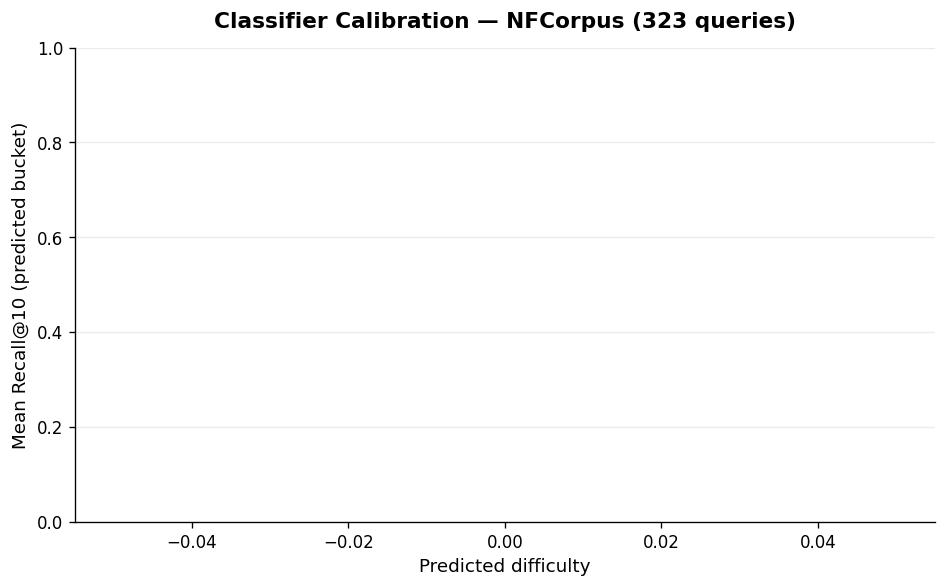
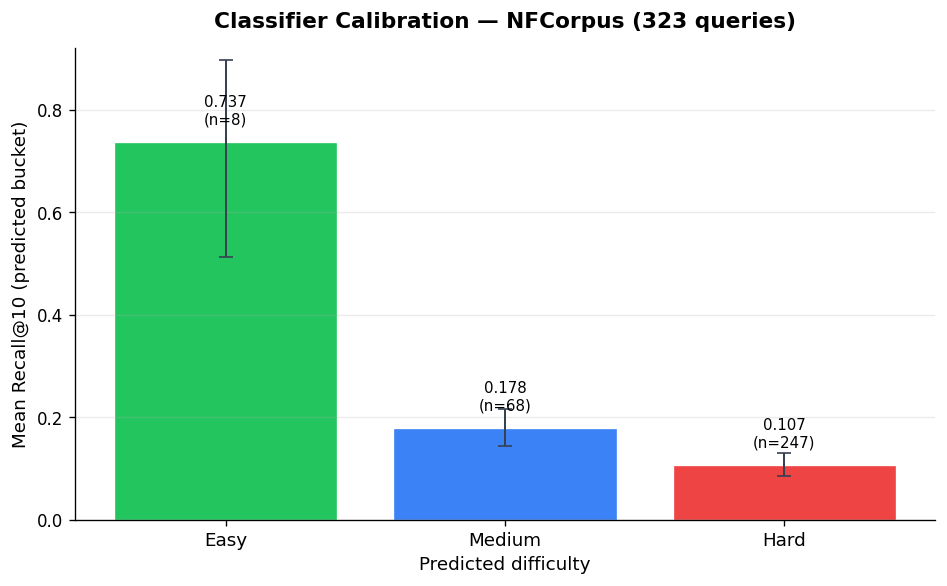
image fix

diff --git a/scripts/generate_dashboard_screenshots.py b/scripts/generate_dashboard_screenshots.py
@@ -3,8 +3,9 @@
 from __future__ import annotations
 
 import asyncio
-import json
+from collections import defaultdict
 from pathlib import Path
+from typing import Any, Dict, List
 
 import matplotlib.pyplot as plt
 import matplotlib.patches as mpatches
@@ -13,6 +14,7 @@ import numpy as np
 from retrieval_observatory.dashboard.api import _compute_stage_contributions, _extract_final_stage_metrics
 from retrieval_observatory.metrics.engine import MetricsEngine
 from retrieval_observatory.metrics.pareto import ParetoPipelineInput, compute_pareto_frontier
+from retrieval_observatory.metrics.significance import bootstrap_ci
 from retrieval_observatory.store.sqlite import SQLiteStore
 
 ROOT = Path(__file__).resolve().parents[1]
@@ -53,25 +55,56 @@ async def _load_pareto(db_path: str, run_id: str):
     return compute_pareto_frontier(inputs)
 
 
-async def _load_classifier(db_path: str, run_id: str):
+async def _load_classifier(db_path: str, run_id: str) -> List[Dict[str, Any]]:
+    """Match dashboard classifier-calibration API: mean final-stage recall@10 per query, grouped by predicted class."""
     store = SQLiteStore(db_path=db_path)
-    rows = await store.get_metrics(run_id)
-    from collections import defaultdict
+    metrics_rows = await store.get_metrics(run_id)
 
-    by_pred: dict[str, list[float]] = defaultdict(list)
-    for row in rows:
-        if row.get("metric_name") != "recall@10" or row.get("stage_index", 0) < 0:
-            continue
-        meta = row.get("query_metadata_json")
-        if not meta:
-            continue
-        if isinstance(meta, str):
-            meta = json.loads(meta)
-        pred = meta.get("predicted_difficulty")
+    predicted_by_id: Dict[str, str] = {}
+    for row in metrics_rows:
+        pred = (row.get("query_metadata") or {}).get("predicted_difficulty")
         if pred:
-            by_pred[pred].append(float(row.get("value") or 0))
-    order = ["easy", "medium", "hard"]
-    return {k: float(np.mean(by_pred[k])) if by_pred[k] else 0.0 for k in order if by_pred.get(k)}
+            predicted_by_id.setdefault(row["query_id"], pred)
+
+    if not predicted_by_id:
+        raise RuntimeError(f"No classifier predictions found in {db_path} run {run_id}")
+
+    recall_rows = [
+        r for r in metrics_rows
+        if r["metric_name"] == "recall" and r["k"] == 10 and r["stage_index"] >= 0
+    ]
+    max_stage_by_pipeline: Dict[str, int] = {}
+    for r in recall_rows:
+        pid = r["pipeline_id"]
+        max_stage_by_pipeline[pid] = max(max_stage_by_pipeline.get(pid, -1), r["stage_index"])
+
+    per_query_recall: Dict[str, List[float]] = defaultdict(list)
+    for r in recall_rows:
+        pid = r["pipeline_id"]
+        if r["stage_index"] != max_stage_by_pipeline.get(pid, r["stage_index"]):
+            continue
+        per_query_recall[r["query_id"]].append(float(r["value"]))
+
+    query_mean_recall = {
+        qid: float(np.mean(vals)) for qid, vals in per_query_recall.items() if vals
+    }
+
+    classes: List[Dict[str, Any]] = []
+    for cls in ("easy", "medium", "hard"):
+        qids = [qid for qid, pred in predicted_by_id.items() if pred == cls]
+        scores = [query_mean_recall[qid] for qid in qids if qid in query_mean_recall]
+        if not scores:
+            classes.append({"class": cls, "n": 0, "mean_recall10": None, "ci_low": None, "ci_high": None})
+            continue
+        ci_low, ci_high = bootstrap_ci(scores)
+        classes.append({
+            "class": cls,
+            "n": len(scores),
+            "mean_recall10": float(np.mean(scores)),
+            "ci_low": ci_low,
+            "ci_high": ci_high,
+        })
+    return classes
 
 
 async def _load_stage_contribution(db_path: str, run_id: str):
@@ -140,21 +173,62 @@ def plot_pareto(result, title: str, out_path: Path) -> None:
     plt.close(fig)
 
 
-def plot_classifier(recall_by_bucket: dict[str, float], out_path: Path) -> None:
-    order = ["easy", "medium", "hard"]
-    labels = [b.capitalize() for b in order if b in recall_by_bucket]
-    values = [recall_by_bucket[b] for b in order if b in recall_by_bucket]
-    colors = ["#009E73", "#0072B2", "#D55E00"]
+def plot_classifier(classes: List[Dict[str, Any]], out_path: Path) -> None:
+    # Match dashboard ClassifierCalibration.tsx colors
+    class_colors = {"easy": "#22c55e", "medium": "#3b82f6", "hard": "#ef4444"}
+
+    labels: List[str] = []
+    values: List[float] = []
+    yerr_lo: List[float] = []
+    yerr_hi: List[float] = []
+    colors: List[str] = []
+    ns: List[int] = []
+
+    for row in classes:
+        if row.get("n", 0) == 0 or row.get("mean_recall10") is None:
+            continue
+        cls = row["class"]
+        mean = row["mean_recall10"]
+        ci_low = row.get("ci_low") if row.get("ci_low") is not None else mean
+        ci_high = row.get("ci_high") if row.get("ci_high") is not None else mean
+        labels.append(cls.capitalize())
+        values.append(mean)
+        yerr_lo.append(mean - ci_low)
+        yerr_hi.append(ci_high - mean)
+        colors.append(class_colors.get(cls, "#6b7280"))
+        ns.append(row["n"])
+
+    if not values:
+        raise RuntimeError("Classifier calibration has no data to plot")
 
     fig, ax = plt.subplots(figsize=(8, 5), dpi=120)
     fig.patch.set_facecolor("white")
-    bars = ax.bar(labels, values, color=colors[: len(values)], edgecolor="white", linewidth=0.8)
+    x = np.arange(len(labels))
+    bars = ax.bar(
+        x,
+        values,
+        color=colors,
+        edgecolor="white",
+        linewidth=0.8,
+        yerr=[yerr_lo, yerr_hi],
+        capsize=4,
+        error_kw={"elinewidth": 1.2, "ecolor": "#374151"},
+    )
+    ax.set_xticks(x)
+    ax.set_xticklabels(labels, fontsize=11)
     ax.set_ylabel("Mean Recall@10 (predicted bucket)", fontsize=11)
     ax.set_xlabel("Predicted difficulty", fontsize=11)
     ax.set_title("Classifier Calibration — NFCorpus (323 queries)", fontsize=13, fontweight="bold", pad=12)
-    ax.set_ylim(0, max(values) * 1.15 if values else 1)
-    for bar, val in zip(bars, values):
-        ax.text(bar.get_x() + bar.get_width() / 2, bar.get_height() + 0.02, f"{val:.3f}", ha="center", fontsize=10)
+    ax.set_ylim(0, max(values) * 1.25)
+    for bar, val, n in zip(bars, values, ns):
+        ax.text(
+            bar.get_x() + bar.get_width() / 2,
+            bar.get_height() + 0.03,
+            f"{val:.3f}\n(n={n})",
+            ha="center",
+            va="bottom",
+            fontsize=9,
+        )
     ax.spines["top"].set_visible(False)
     ax.spines["right"].set_visible(False)
     ax.grid(axis="y", alpha=0.25)
